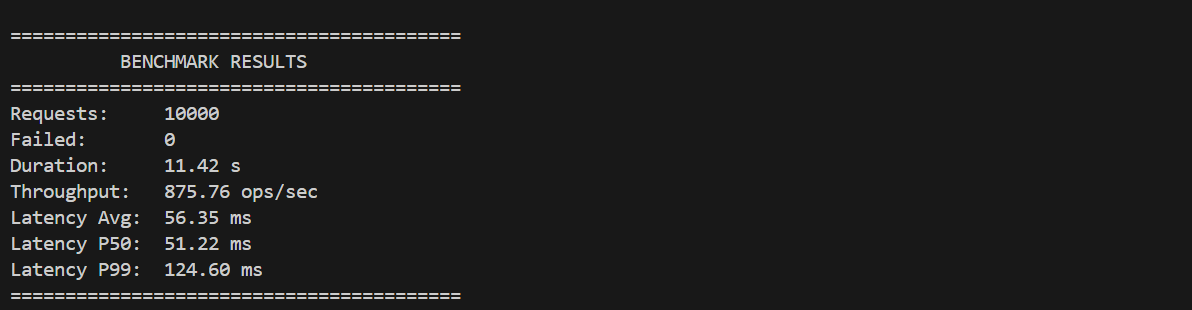
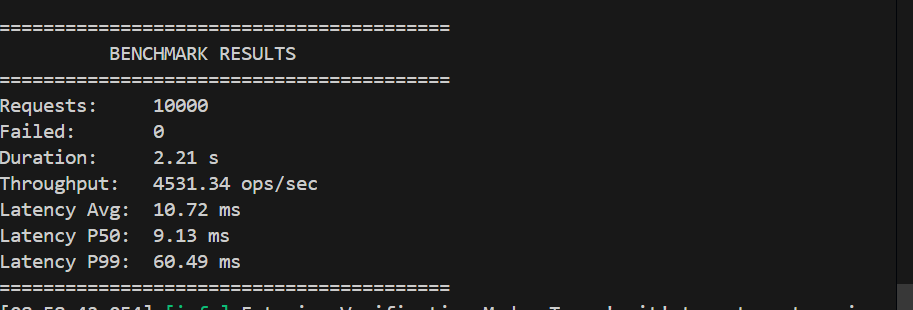
optimization

diff --git a/src/storage/rocksdb_store.cpp b/src/storage/rocksdb_store.cpp
@@ -34,7 +34,9 @@ RocksDBStore::RocksDBStore(const std::string& db_path) {
         last_log_index_cache_ = 0;
     }
     
-    spdlog::info("[Storage] DB Opened. Last Log Index: {}", last_log_index_cache_);
+    if (DevFlags::LOG_STORAGE) {
+        spdlog::info("[Storage] DB Opened. Last Log Index: {}", last_log_index_cache_);
+    }
 }
 
 RocksDBStore::~RocksDBStore() {
@@ -51,7 +53,10 @@ void RocksDBStore::initializeGenesisData() {
         return;
     }
 
-    spdlog::info("[Storage] Genesis: Creating 9000 accounts with Balance $100000...");
+    if (DevFlags::LOG_STORAGE)
+    {
+        spdlog::info("[Storage] Genesis: Creating 9000 accounts with Balance $100000...");
+    }
     
     rocksdb::WriteBatch batch;
     for (int i = 1; i <= 9000; ++i) {
@@ -59,7 +64,11 @@ void RocksDBStore::initializeGenesisData() {
     }
     
     db_->Write(rocksdb::WriteOptions(), &batch);
-    spdlog::info("[Storage] Genesis Complete.");
+
+    if (DevFlags::LOG_STORAGE)
+    {
+        spdlog::info("[Storage] Genesis Complete.");
+    }
 }
 
 // --- 2. RAFT HARD STATE ---
@@ -211,15 +220,23 @@ void RocksDBStore::applySnapshot(const std::string& snapshot_data, int last_inde
     batch.Put("sys:snapshotTerm", std::to_string(last_term));
     
     db_->Write(rocksdb::WriteOptions(), &batch);
+
+    if (DevFlags::LOG_STORAGE)
+    {
+        spdlog::info("[Storage] Snapshot Applied. State machine restored up to Index {}", last_index);
+    }
     
-    spdlog::info("[Storage] Snapshot Applied. State machine restored up to Index {}", last_index);
 }
 
 // C. Compact Log: Deletes OLD logs [0 ... compact_index]
 void RocksDBStore::compactLog(int compact_index) {
     std::lock_guard<std::mutex> lock(db_mutex_);
+
+    if (DevFlags::LOG_STORAGE)
+    {
+        spdlog::info("[Storage] Compacting Log up to index {}...", compact_index);
+    }
     
-    spdlog::info("[Storage] Compacting Log up to index {}...", compact_index);
     
     for (int i = 0; i <= compact_index; ++i) {
         db_->Delete(rocksdb::WriteOptions(), formatLogKey(i));

diff --git a/src/client/raft_client.cpp b/src/client/raft_client.cpp
@@ -86,10 +86,14 @@ void RaftClient::runCommand(client::ClientRequest req, ResultCallback callback) 
             if (resp.success()) {
                 success = true;
                 if (req.type() == client::ClientRequest::GET_BALANCE) {
-                         // Print: [Client 1] Account 5: Balance: 100
-                         spdlog::info("[Client {}] Account {}: {}", id_, req.sender_id(), resp.result());
+                    if (DevFlags::LOG_CLIENT) {
+                        // Print: [Client 1] Account 5: Balance: 100
+                        spdlog::info("[Client {}] Account {}: {}", id_, req.sender_id(), resp.result());
+                    }
                     } else {
-                         spdlog::info("[Client {}] Transfer: {}", id_, resp.result());
+                        if (DevFlags::LOG_CLIENT) {
+                            spdlog::info("[Client {}] Transfer: {}", id_, resp.result());
+                        }
                     }
                 break; // Success! Exit loop.
             }

diff --git a/src/raft/execution.cpp b/src/raft/execution.cpp
@@ -77,12 +77,12 @@ void RaftNode::runStateMachineExecutor() {
                 }
             }
 
-            if (lastApplied_ % 100 == 0) {
+            if (lastApplied_ % 1000 == 0) {
                 
                 // SAFETY BUFFER: Keep the last 10 logs on disk.
                 // This allows followers who are slightly behind to catch up 
                 // without needing a full snapshot transfer.
-                int compact_index = lastApplied_ - 50;
+                int compact_index = lastApplied_ - 100;
 
                 if (compact_index > 0) {
                     if (DevFlags::LOG_SNAPSHOT) {

diff --git a/src/raft/replication.cpp b/src/raft/replication.cpp
@@ -6,7 +6,7 @@
 
 void RaftNode::runReplicationManager() {
     while (running_) {
-        std::this_thread::sleep_for(std::chrono::milliseconds(50));
+        std::this_thread::sleep_for(std::chrono::milliseconds(1));
 
         // Step 1: Get list of peers and check leadership (Quick Lock)
         std::vector<int> target_peers;

diff --git a/src/main.cpp b/src/main.cpp
@@ -229,7 +229,8 @@ int main() {
     DevFlags::LOG_ELECTION = false;
     DevFlags::LOG_EXECUTION   = false;
     DevFlags::LOG_NETWORK     = false;
-    DevFlags::LOG_CLIENT      = true;
+    DevFlags::LOG_CLIENT      = false;
+    DevFlags::LOG_SNAPSHOT    = false;
 
     spdlog::info("--- STARTING RAFT CLUSTER ---");
 

diff --git a/include/utils/globals.h b/include/utils/globals.h
@@ -8,4 +8,5 @@ struct DevFlags {
     static bool LOG_NETWORK;     // Raw bytes, connection errors
     static bool LOG_CLIENT;      // Client retries and responses
     static bool LOG_SNAPSHOT;    // Snapshot creation and installation
+    static bool LOG_STORAGE;     // RocksDB operations (Put/Get/Delete)
 };

diff --git a/src/utils/globals.cpp b/src/utils/globals.cpp
@@ -8,3 +8,4 @@ bool DevFlags::LOG_EXECUTION   = true;
 bool DevFlags::LOG_NETWORK     = false;
 bool DevFlags::LOG_CLIENT      = false;
 bool DevFlags::LOG_SNAPSHOT    = true;
+bool DevFlags::LOG_STORAGE     = false;
